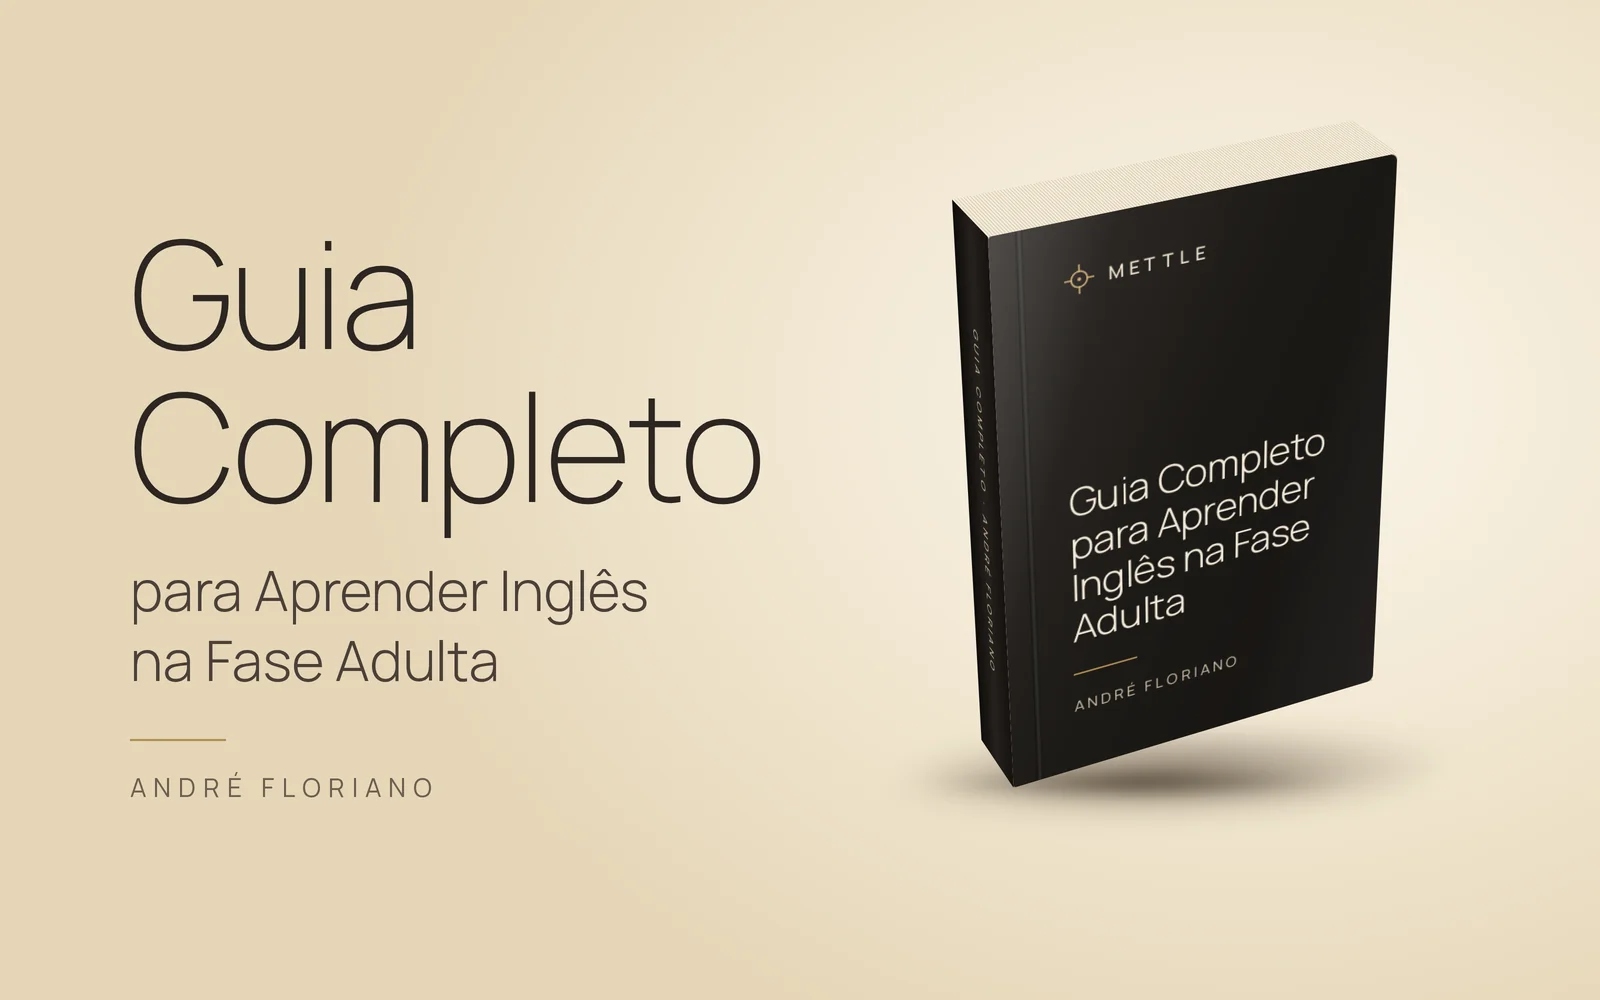
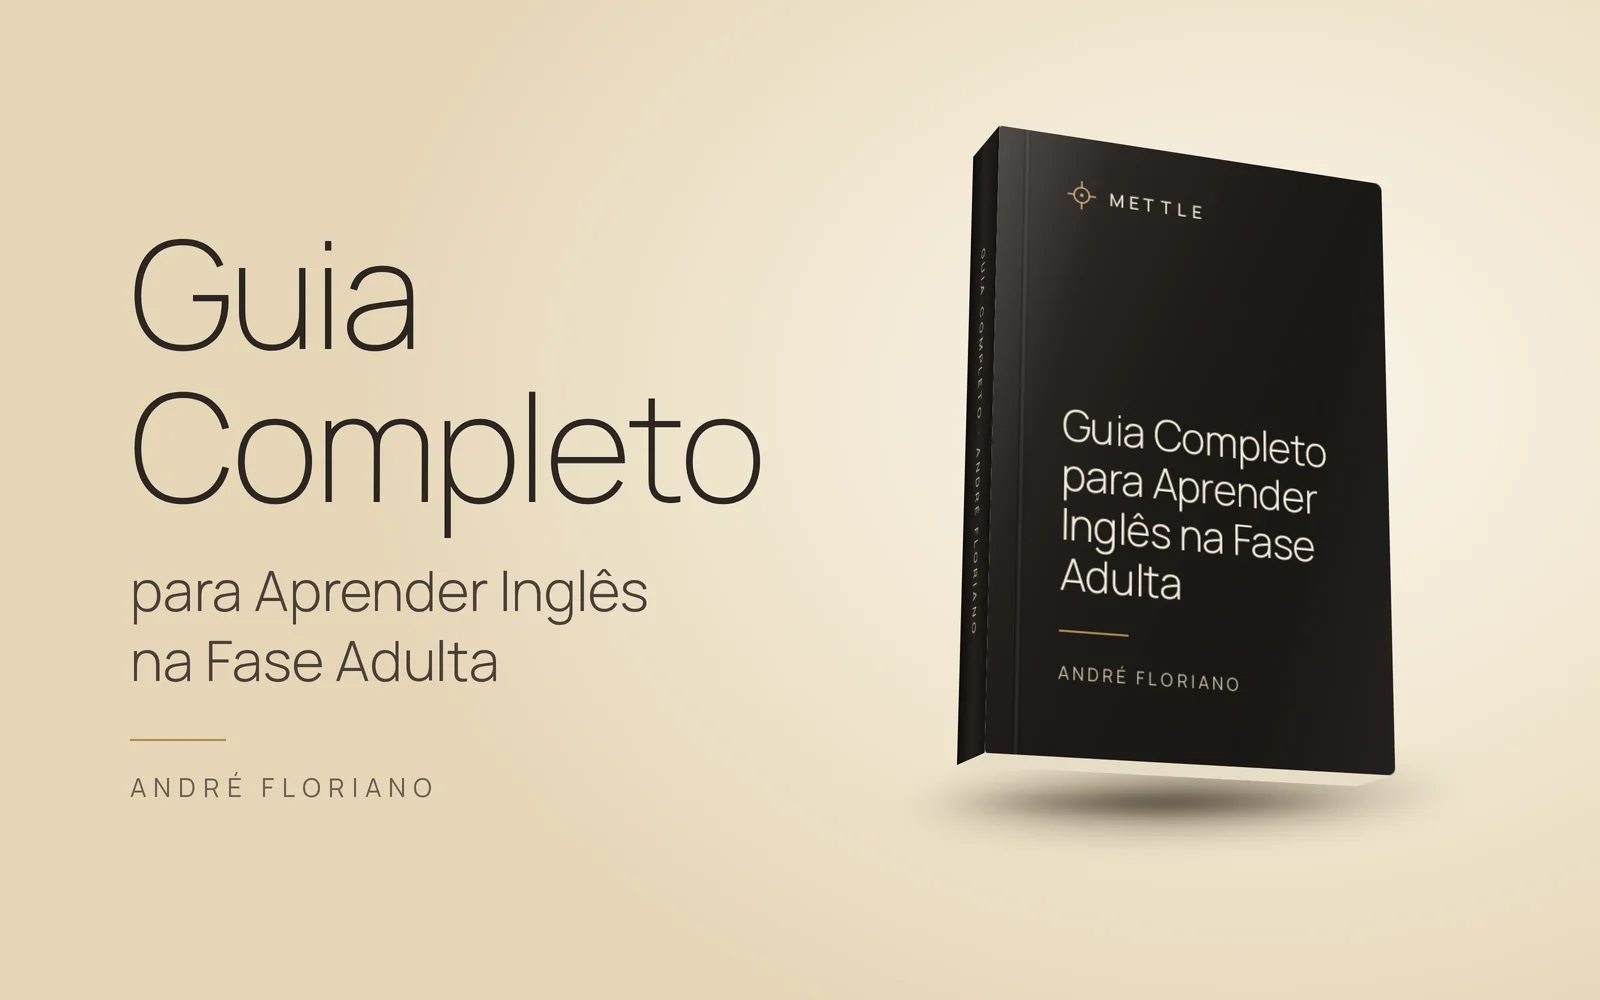
fix(ebook): livro 3D voltado para cima na Home e em /guia

Changed region(s): [[0.5938, 0.124, 0.875, 0.837], [0.6875, 0.248, 0.75, 0.279]]

diff --git a/src/components/_new/NewEbook.tsx b/src/components/_new/NewEbook.tsx
@@ -120,7 +120,8 @@ export const NewEbook: React.FC = () => {
     return (
         <NewPage className="narrow">
             <Product>
-                <EbookCover width={240} className="cover" />
+                {/* eslint-disable-next-line @next/next/no-img-element -- livro 3D (public/img), o mesmo do card da Home */}
+                <img src="/img/ebook-livro-3d.webp" alt="" className="cover" width={300} style={{ height: "auto", maxWidth: "100%" }} />
                 <div className="info">
                     <p className="eyebrow">E-book · {EBOOK.pages} páginas</p>
                     <h1>{EBOOK.title}</h1>
@@ -204,8 +205,7 @@ const Product = styled.div`
 
         /* capa menor no celular: largura e escala juntas (o tamanho base vem inline) */
         .cover {
-            width: 168px !important;
-            font-size: 16.8px !important;
+            width: 220px !important;
             margin: 0 auto;
         }
         h1 {
